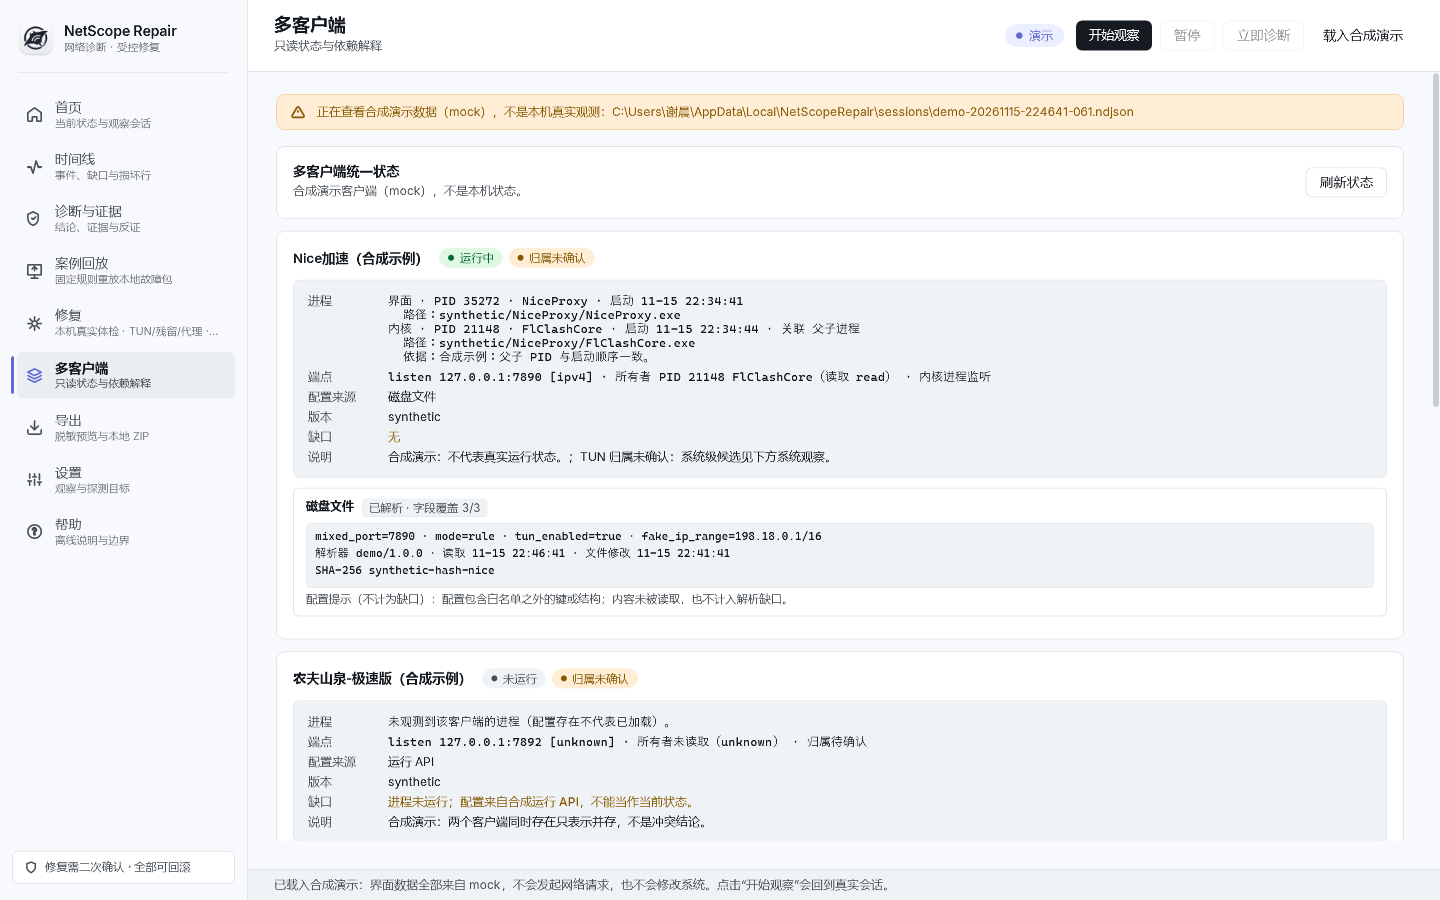
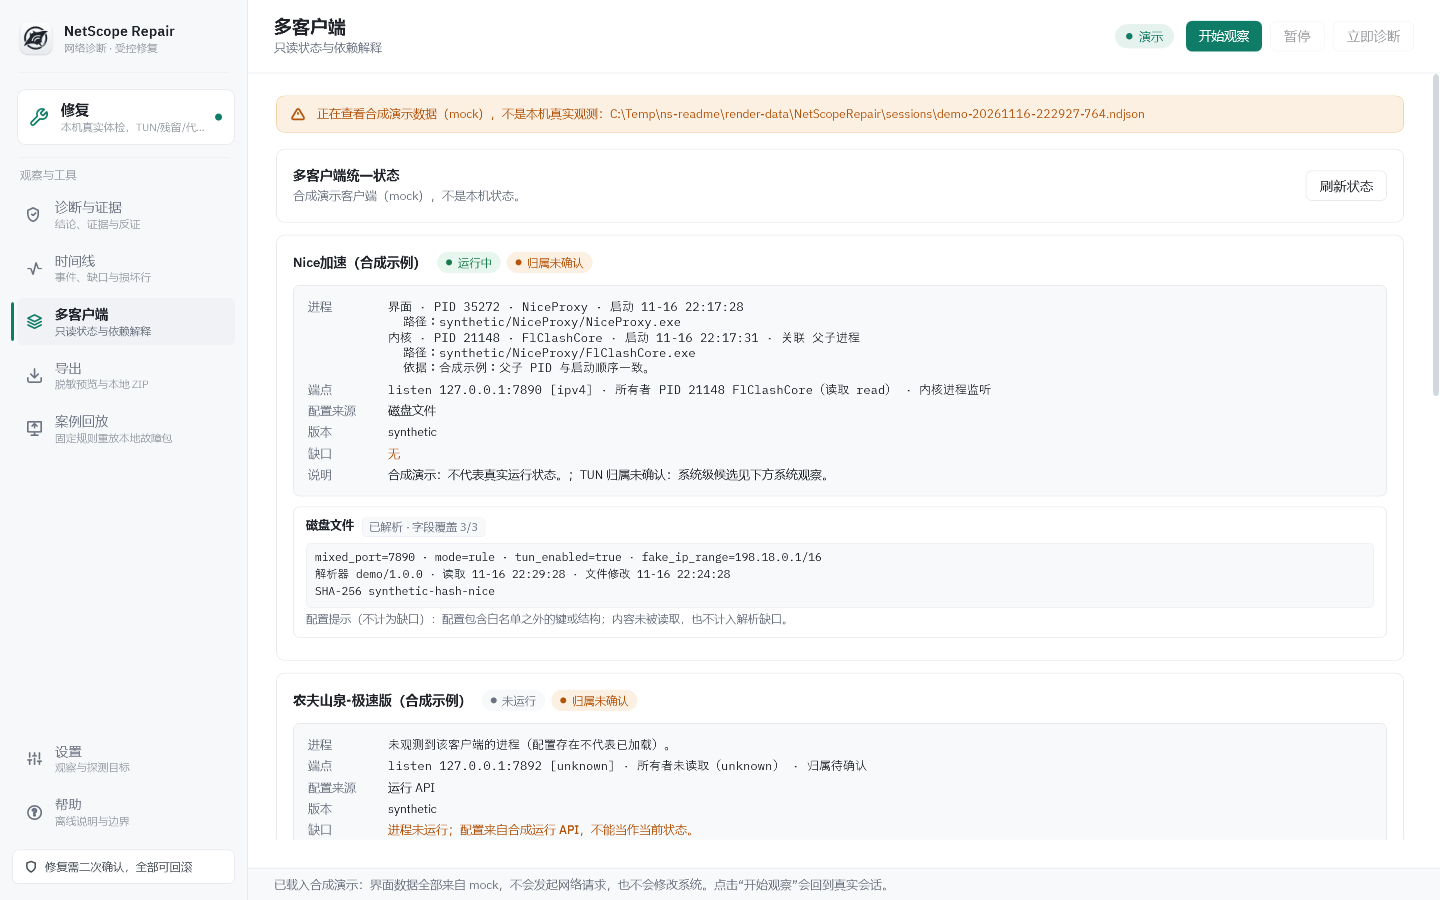
docs: refresh signal-instrument screenshots, bump test count to 992, drop home from gallery

diff --git a/AGENTS.md b/AGENTS.md
@@ -36,7 +36,7 @@ IBM Plex Sans/Mono 内嵌字体，白底信号青绿（#0E7C66）调色板；动
 
 ```text
 dotnet build NetScopeRepair.slnx  ->  0 警告 0 错误
-8 个测试工程                      ->  985 通过 / 0 失败 / 0 跳过
+8 个测试工程                      ->  992 通过 / 0 失败 / 0 跳过
 dotnet publish -c Release         ->  artifacts/M4-UnifiedRepair/（可直接双击）
 ```
 
